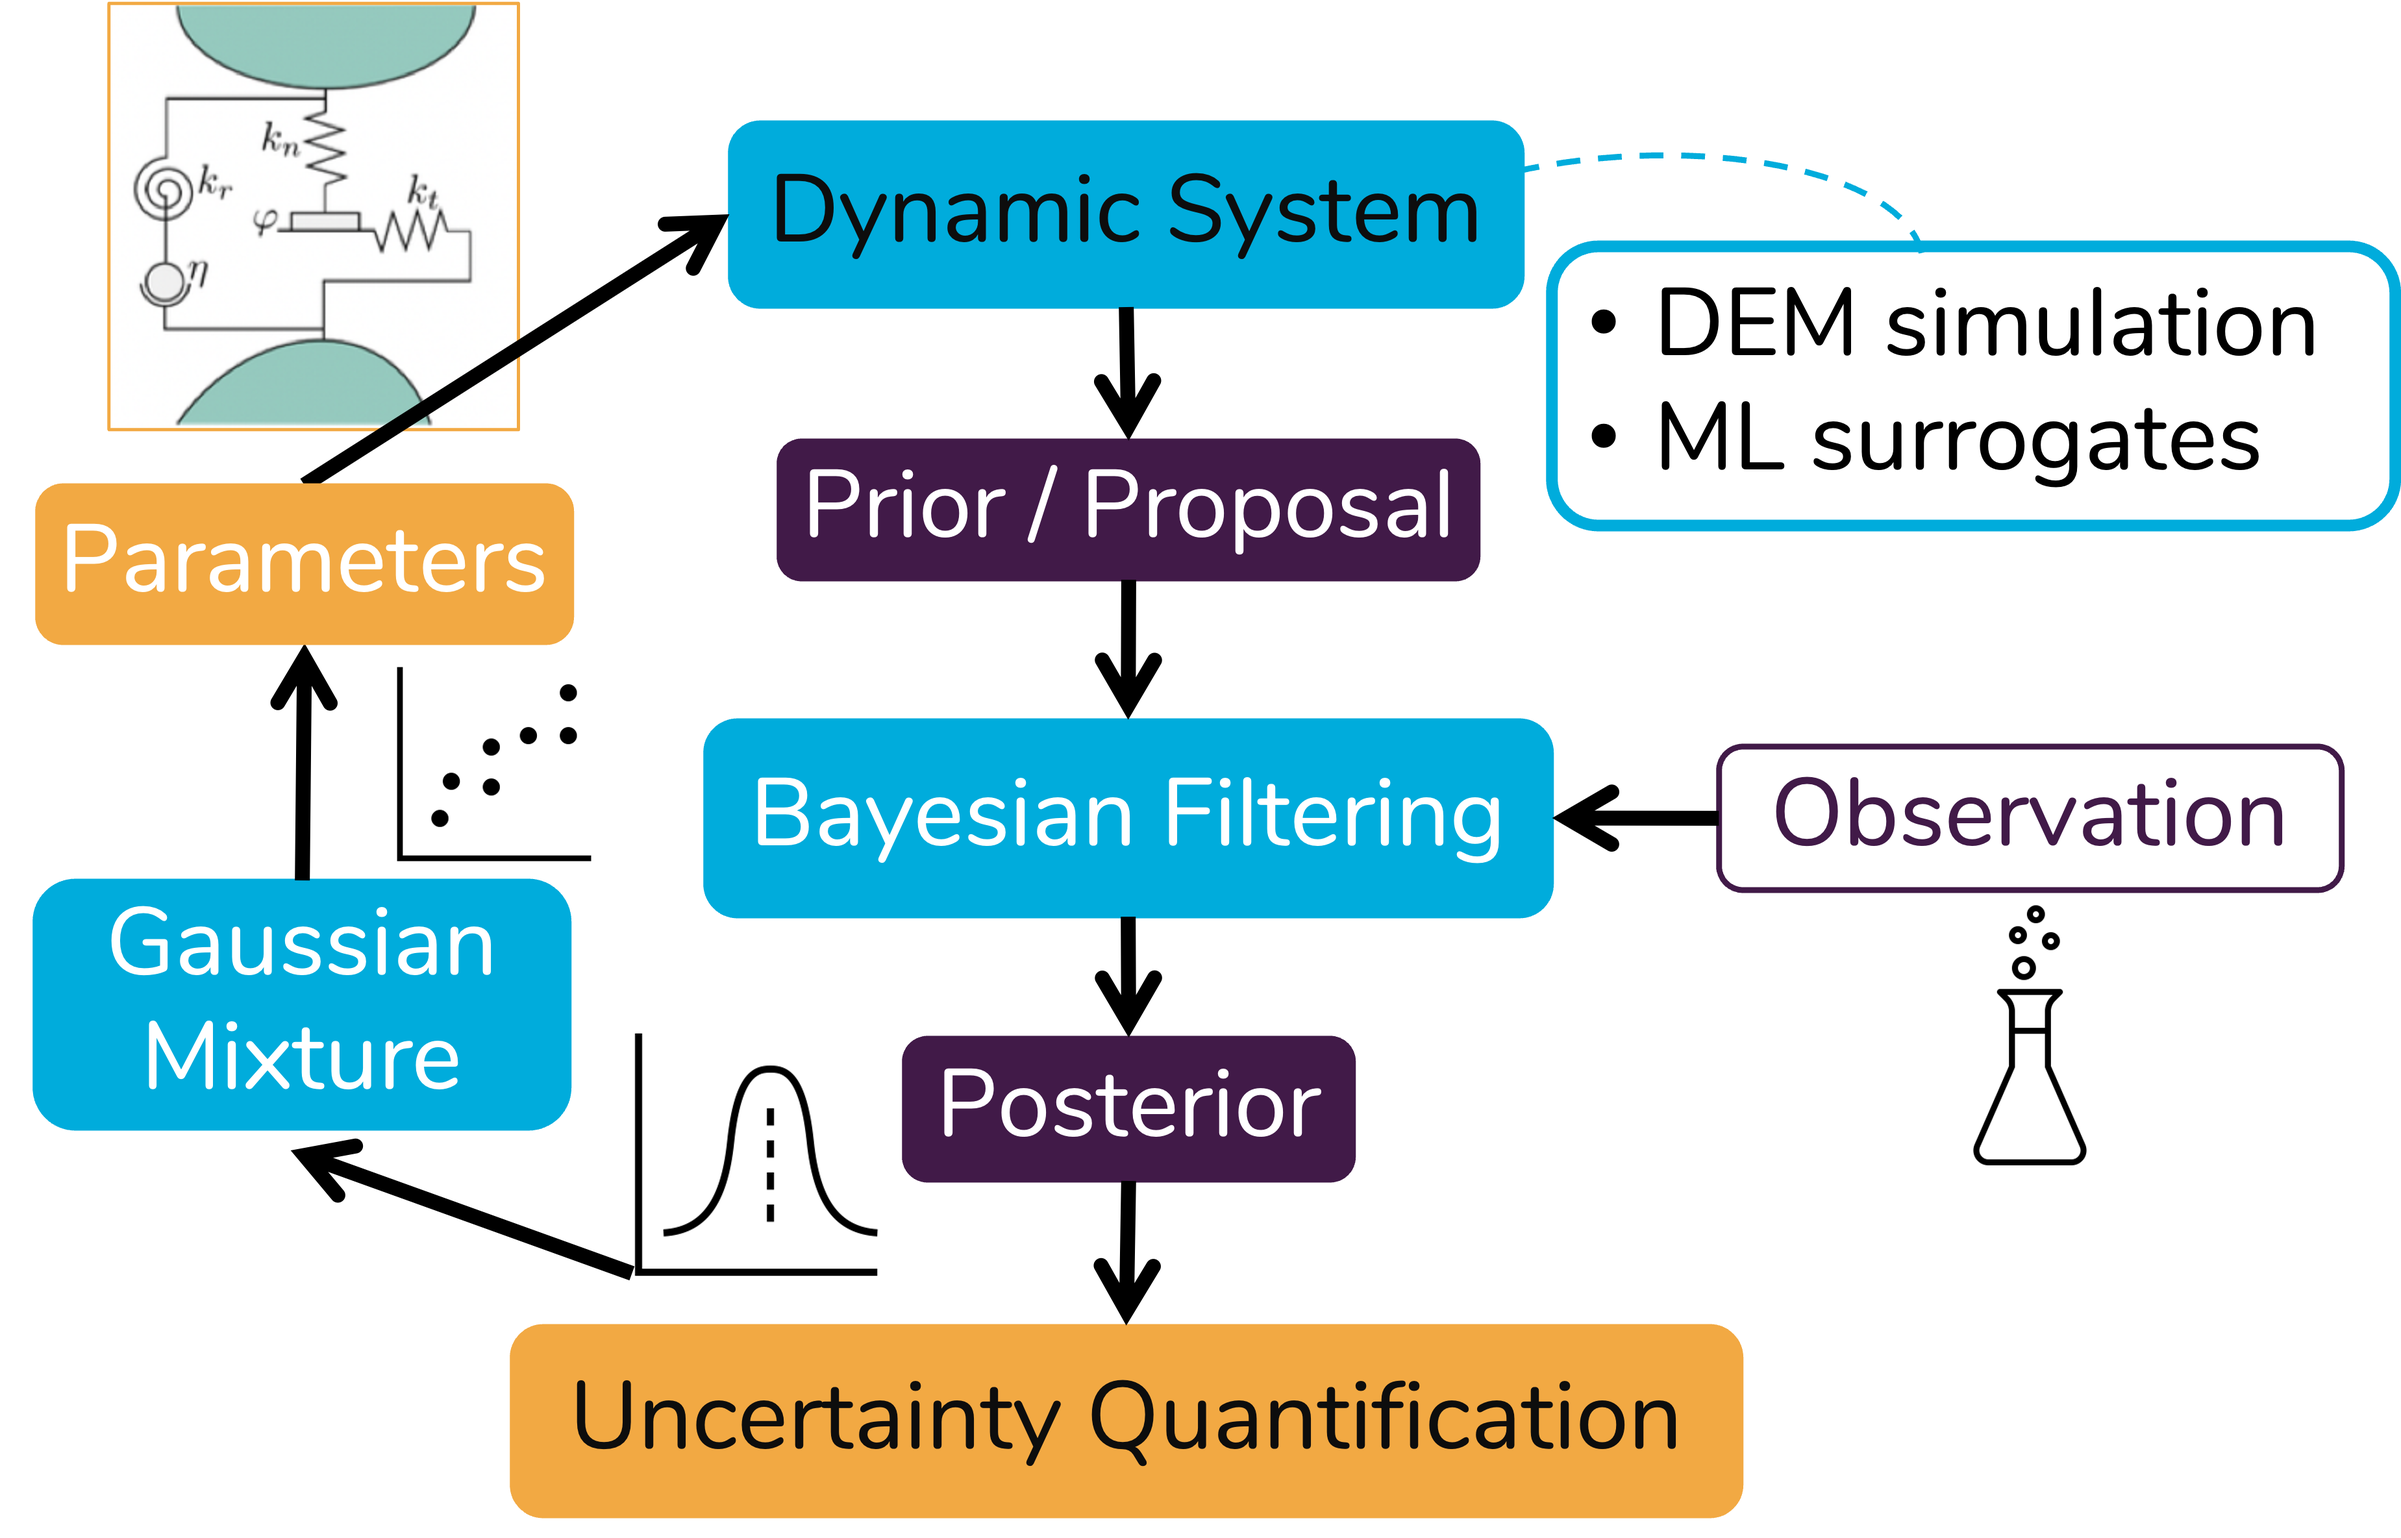
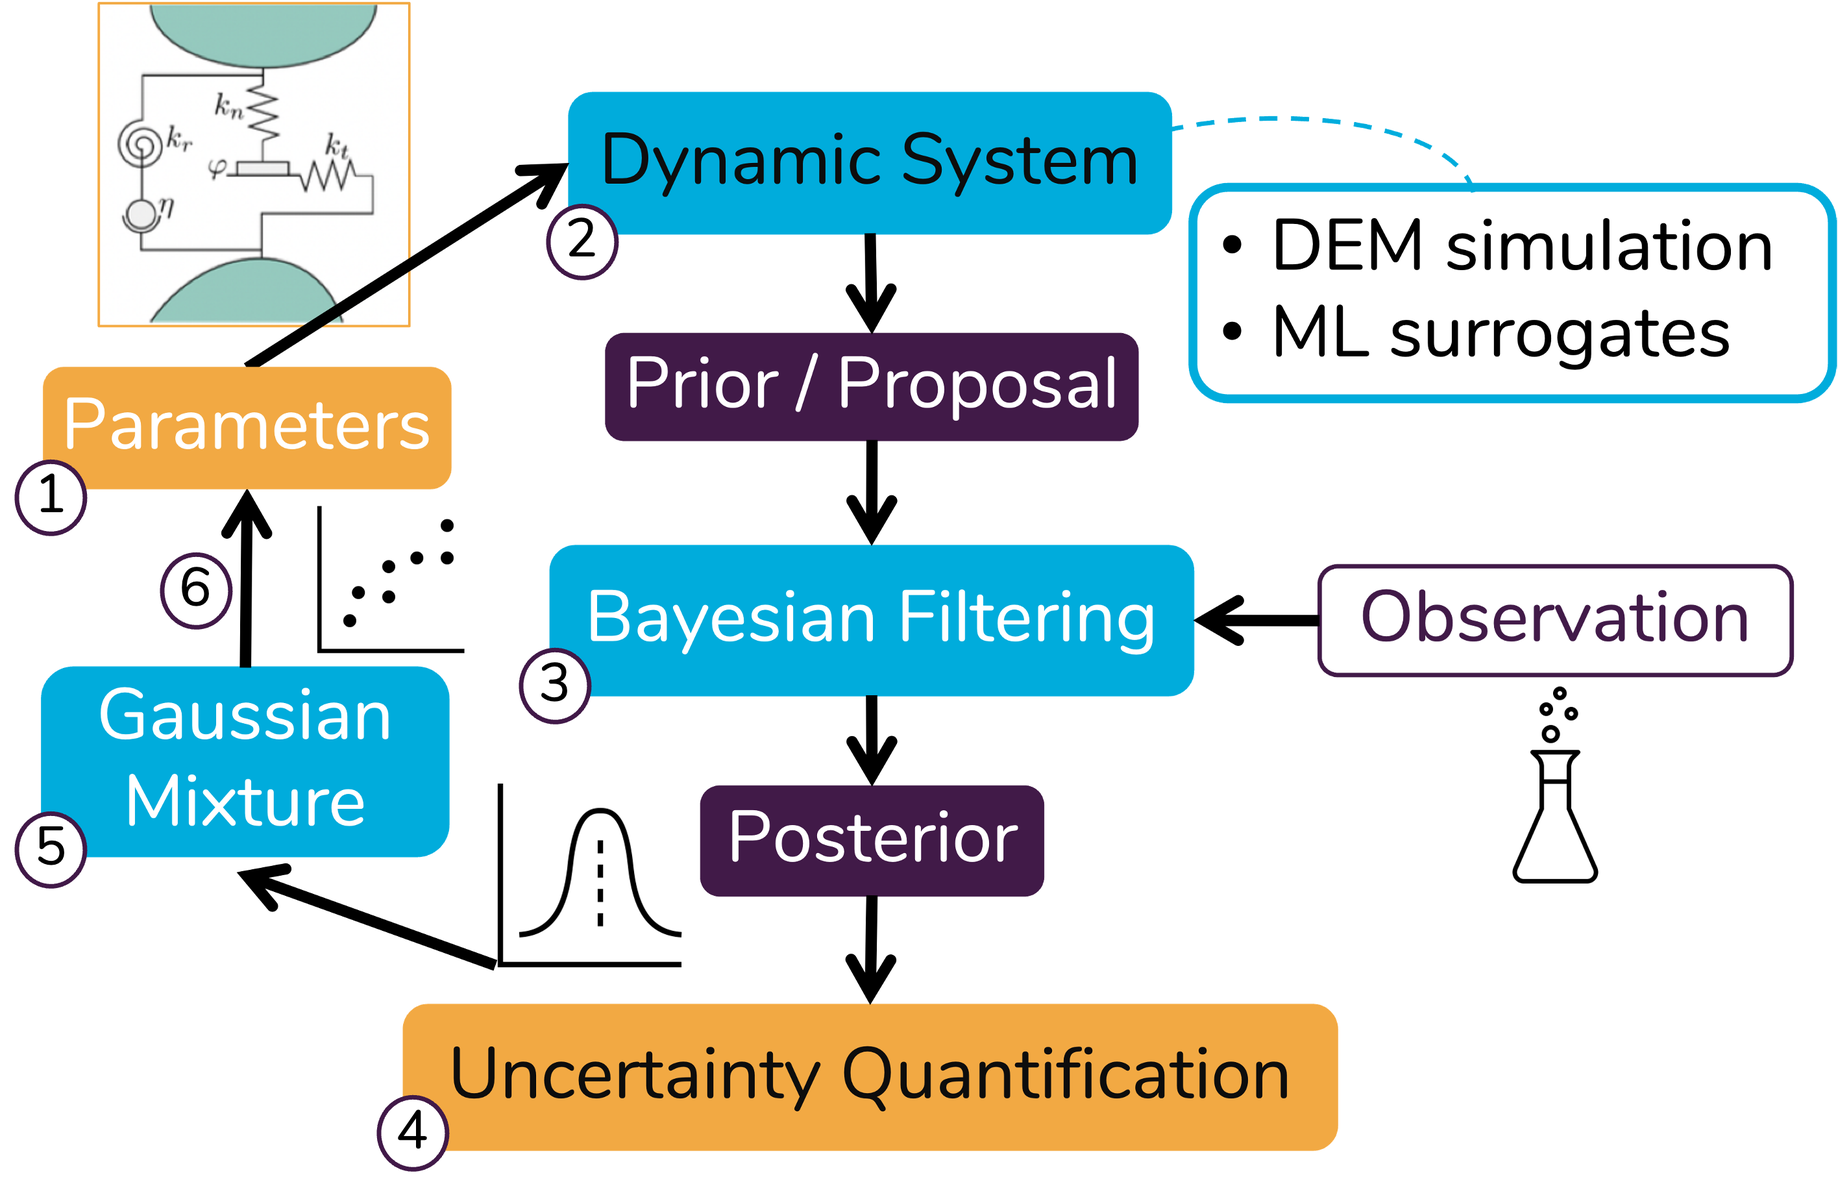
Add labels to image and reference in text.

Changed region(s): [[0.0, 0.0, 1.0, 0.9875], [0.2175, 0.1852, 0.2486, 0.216]]

diff --git a/paper.md b/paper.md
@@ -53,13 +53,14 @@ GrainLearning combines probabilistic learning of parameter space and sampling to
 
 # Functionality
 
+GrainLearning's core functionality is illustrated in \autoref{fig:calibration_diagram}.
 GrainLearning started in the geotechnical engineering community and was primarily used for granular materials in quasi-static, laboratory conditions [@Cheng2018a; @Cheng2019]. These include triaxial [@Hartmann2022; @LI2024105957] and oedometric [@Cheng2019] compressions of soil samples.
 In the particle technology community, attempts with GrainLearning have been made to identify contact parameters for polymer and pharmaceutical powders against angle-of-repose [@essay91991], shear cell [@Thornton2023], and sintering experiments [@ALVAREZ2022117000]. Satisfactory results have been obtained in simulation cases where the grains were in dynamic regimes or treated under multi-physical processes.
 
 - **Calibration or parameter inference**: By means of Sequential Monte Carlo filtering GrainLearning can infer and update model parameters. By learning the underlying distribution using a variational Gaussian model, highly probable zones are identified and sampled iteratively until a tolerance for the overall uncertainty is reached. This process requires the input of: a time series reference data, the ranges of the parameters to infer and a tolerance. The software iteratively minimizes the discrepancy between the model solution and the reference data.
 
 ![Elements of the trade in the calibration process. 1. Draw initial values of the parameters to calibrate. 2. Run the dynamic system with the parameters. 3. With the reference data or observation, estimate the posterior distribution via the bayesian filtering. 4. Check convergence of the parameter inference, if the process has not converged: 5. Define a gaussian mixture from the examples of this iteration and sample the parameters for the next iteration. 6. Next iteration step.
-For more details check [the iterative bayesian filter section of GrainLearning's documentation].(https://grainlearning.readthedocs.io/en/latest/bayesian_filtering.html#iterative-bayesian-filter)
+For more details check [the iterative bayesian filter section of GrainLearning's documentation](https://grainlearning.readthedocs.io/en/latest/bayesian_filtering.html#iterative-bayesian-filter).
 \label{fig:calibration_diagram}](calibration_diagram.png)
 
 - **Surrogate modeling**: Besides using direct simulation results (e.g. DEM) GrainLearning offers the capability of building surrogates (e.g. recurrent neural networks) as an alternative to computationally expensive DEM simulations, effectively reducing the cost by several orders of magnitude.
